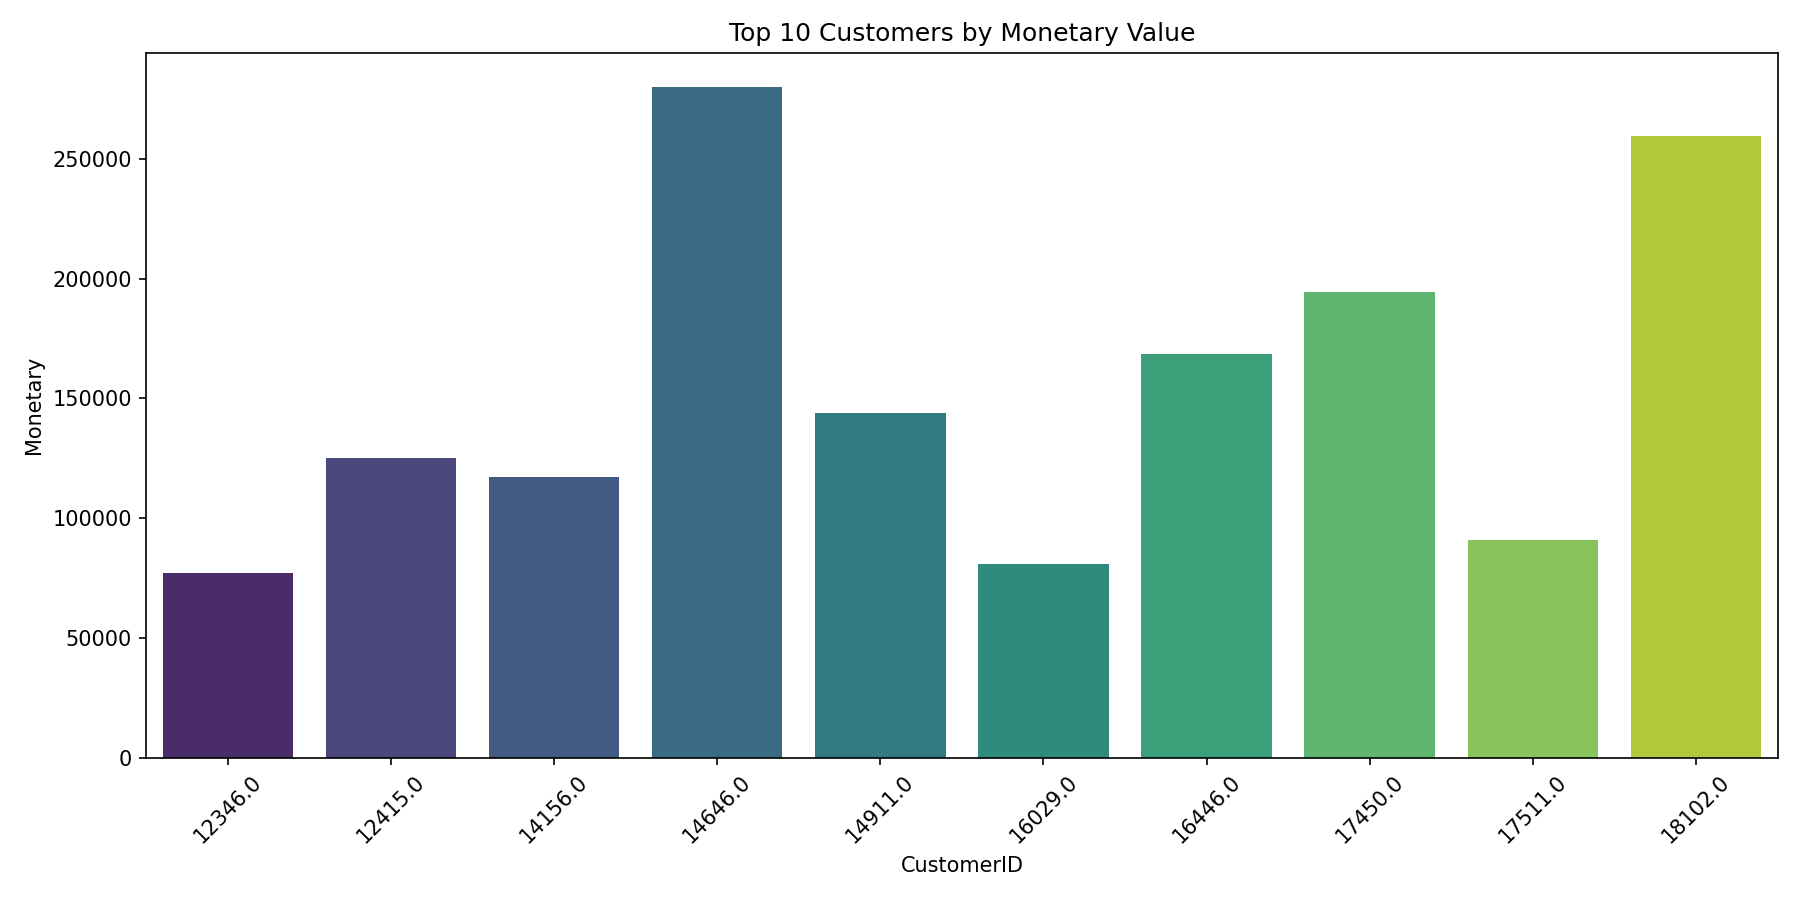
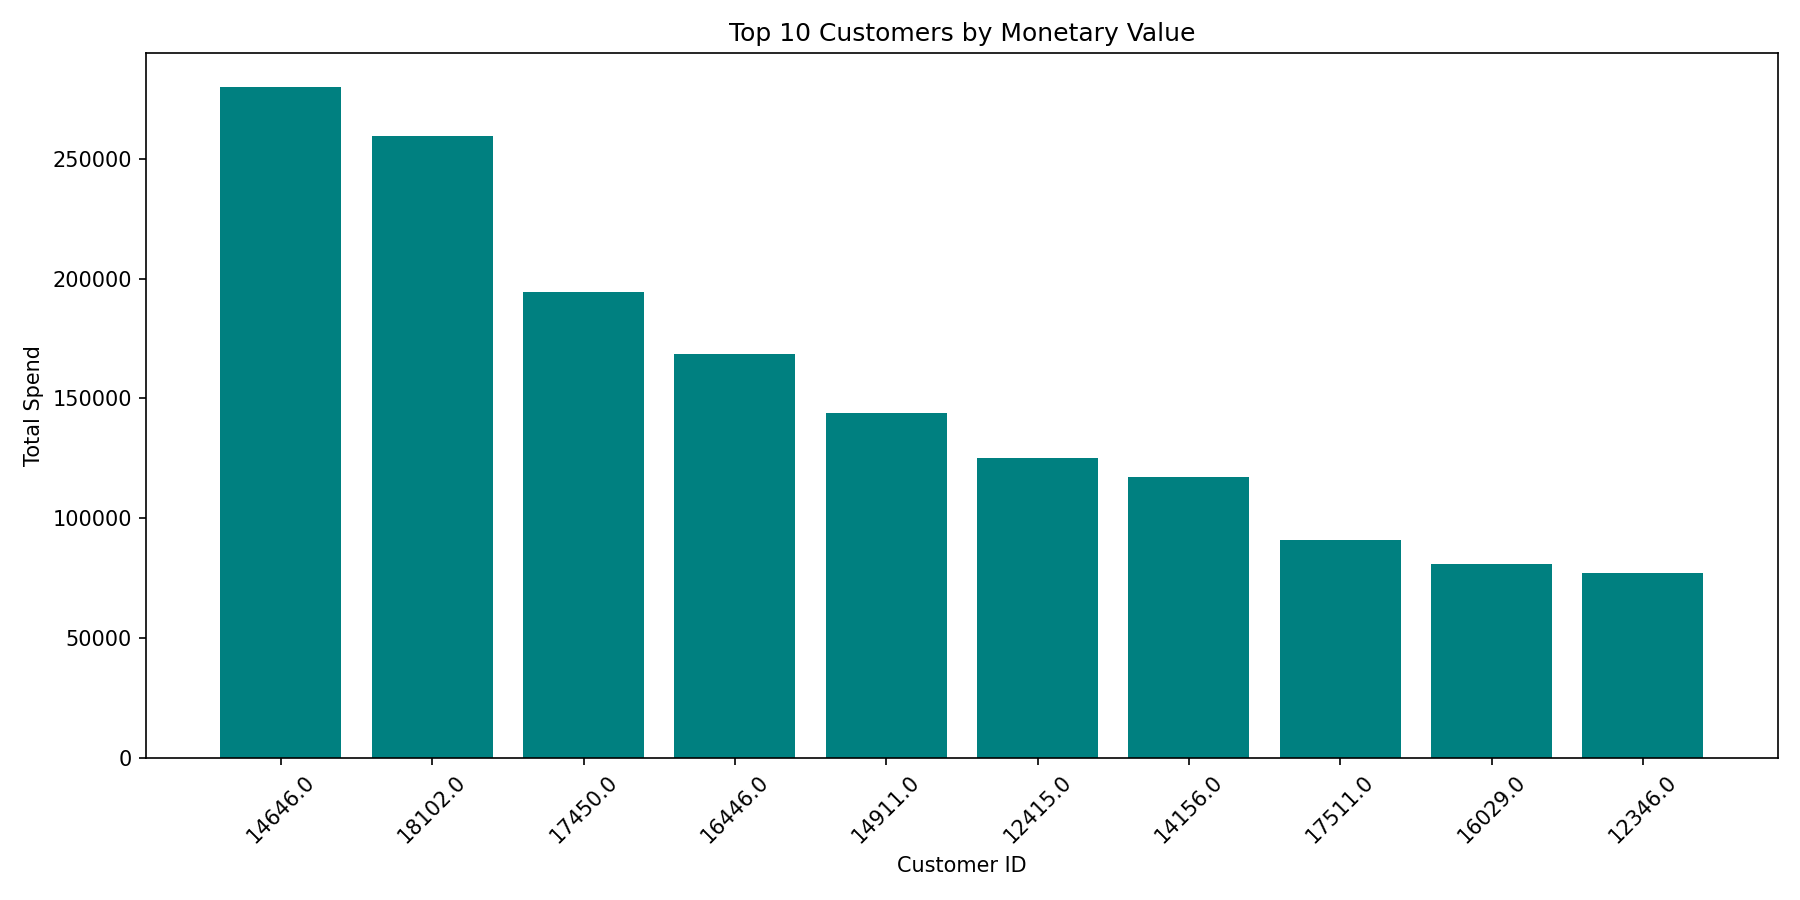
Add reports images

diff --git a/scripts/visualize.py b/scripts/visualize.py
@@ -1,6 +1,5 @@
 import pandas as pd
 import matplotlib.pyplot as plt
-import seaborn as sns
 import os
 
 def load_rfm(filepath="data/rfm_scores.csv"):
@@ -11,14 +10,20 @@ def plot_rfm_distribution(rfm, save_dir="reports"):
     
     fig, axes = plt.subplots(1, 3, figsize=(15, 4))
     
-    sns.histplot(rfm['Recency'], bins=30, kde=True, ax=axes[0])
+    axes[0].hist(rfm['Recency'], bins=30, edgecolor='black')
     axes[0].set_title('Recency Distribution (days since last purchase)')
+    axes[0].set_xlabel('Days')
+    axes[0].set_ylabel('Frequency')
     
-    sns.histplot(rfm['Frequency'], bins=30, kde=True, ax=axes[1])
+    axes[1].hist(rfm['Frequency'], bins=30, edgecolor='black')
     axes[1].set_title('Frequency Distribution (number of orders)')
+    axes[1].set_xlabel('Orders')
+    axes[1].set_ylabel('Frequency')
     
-    sns.histplot(rfm['Monetary'], bins=30, kde=True, ax=axes[2])
+    axes[2].hist(rfm['Monetary'], bins=30, edgecolor='black')
     axes[2].set_title('Monetary Distribution (total spend)')
+    axes[2].set_xlabel('Revenue')
+    axes[2].set_ylabel('Frequency')
     
     plt.tight_layout()
     plt.savefig(f"{save_dir}/rfm_distribution.png", dpi=150)
@@ -37,8 +42,10 @@ def plot_segments_pie(rfm, save_dir="reports"):
 def plot_top_customers(rfm, save_dir="reports"):
     top10 = rfm.nlargest(10, 'Monetary')[['CustomerID', 'Monetary', 'Frequency', 'Segment']]
     plt.figure(figsize=(12, 6))
-    sns.barplot(data=top10, x='CustomerID', y='Monetary', palette='viridis')
+    plt.bar(top10['CustomerID'].astype(str), top10['Monetary'], color='teal')
     plt.title('Top 10 Customers by Monetary Value')
+    plt.xlabel('Customer ID')
+    plt.ylabel('Total Spend')
     plt.xticks(rotation=45)
     plt.tight_layout()
     plt.savefig(f"{save_dir}/top10_customers.png", dpi=150)
@@ -54,4 +61,3 @@ if __name__ == "__main__":
     plot_segments_pie(rfm)
     plot_top_customers(rfm)
     print("All charts created successfully.")
-    